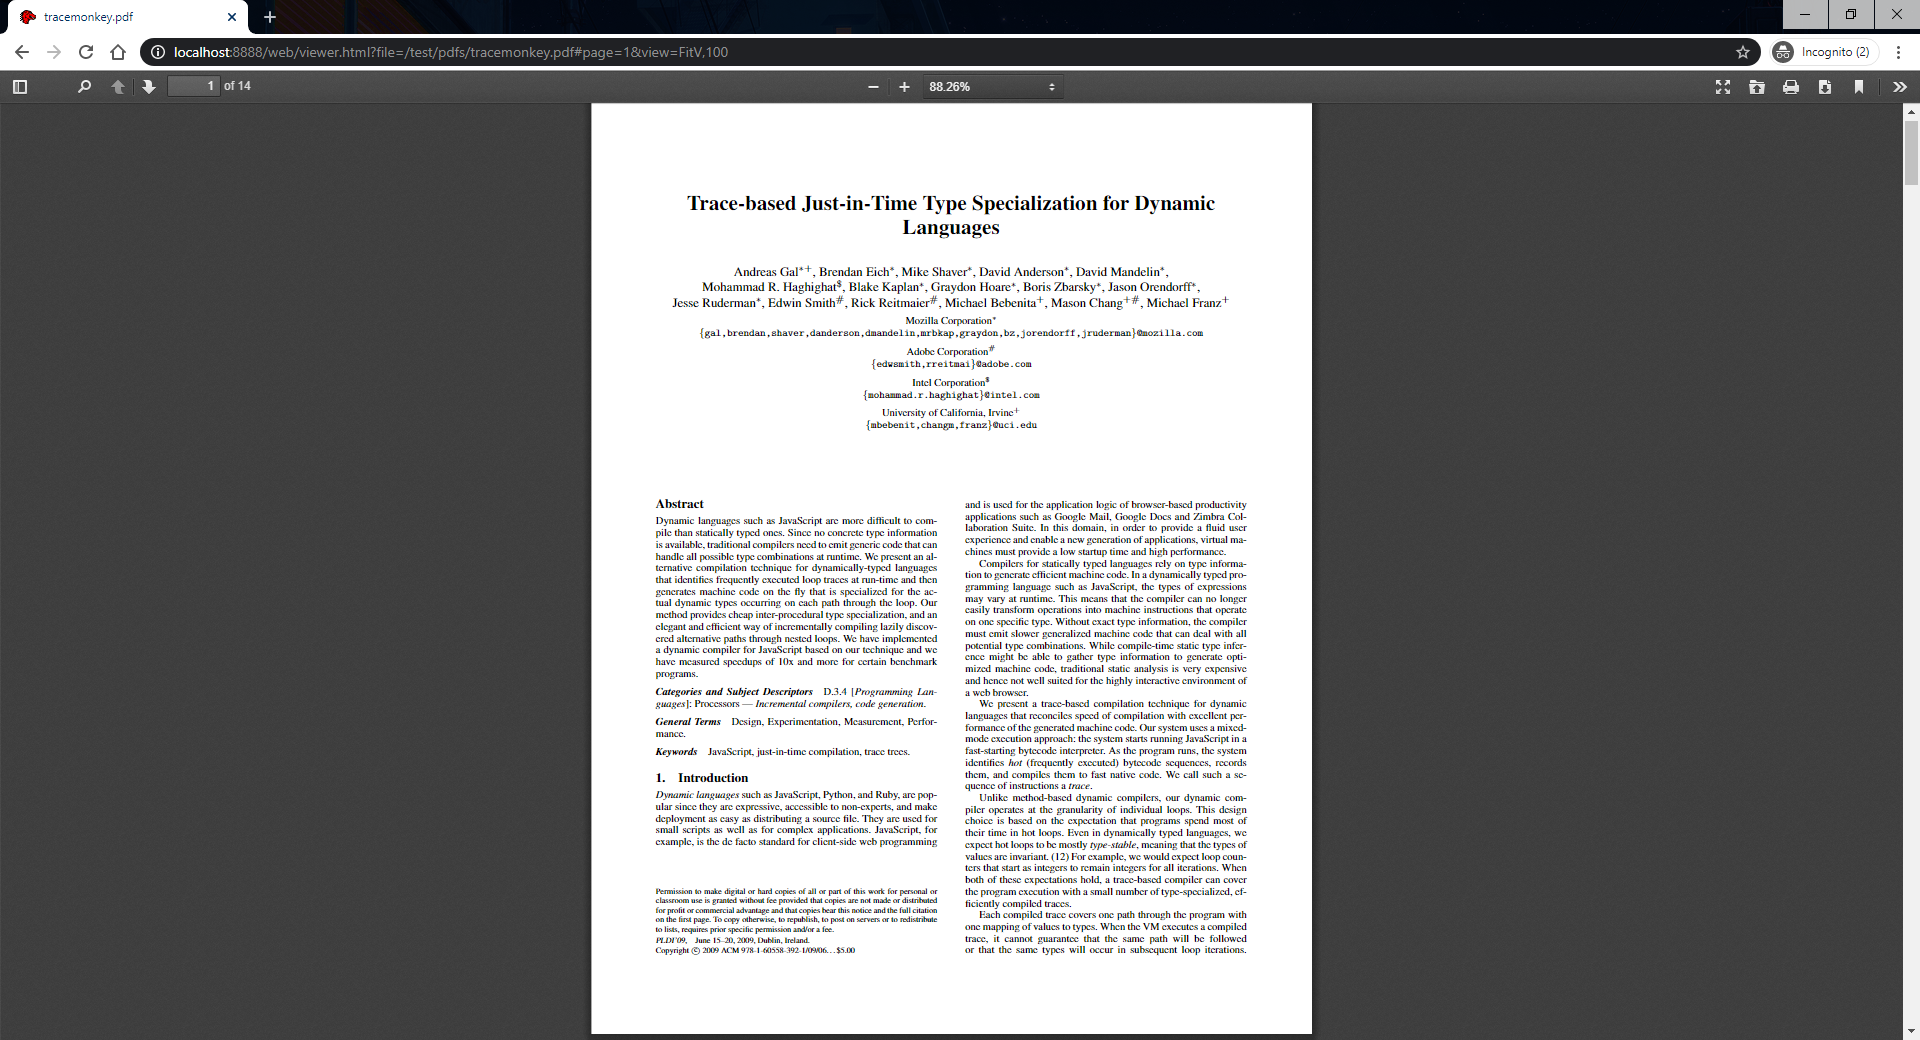
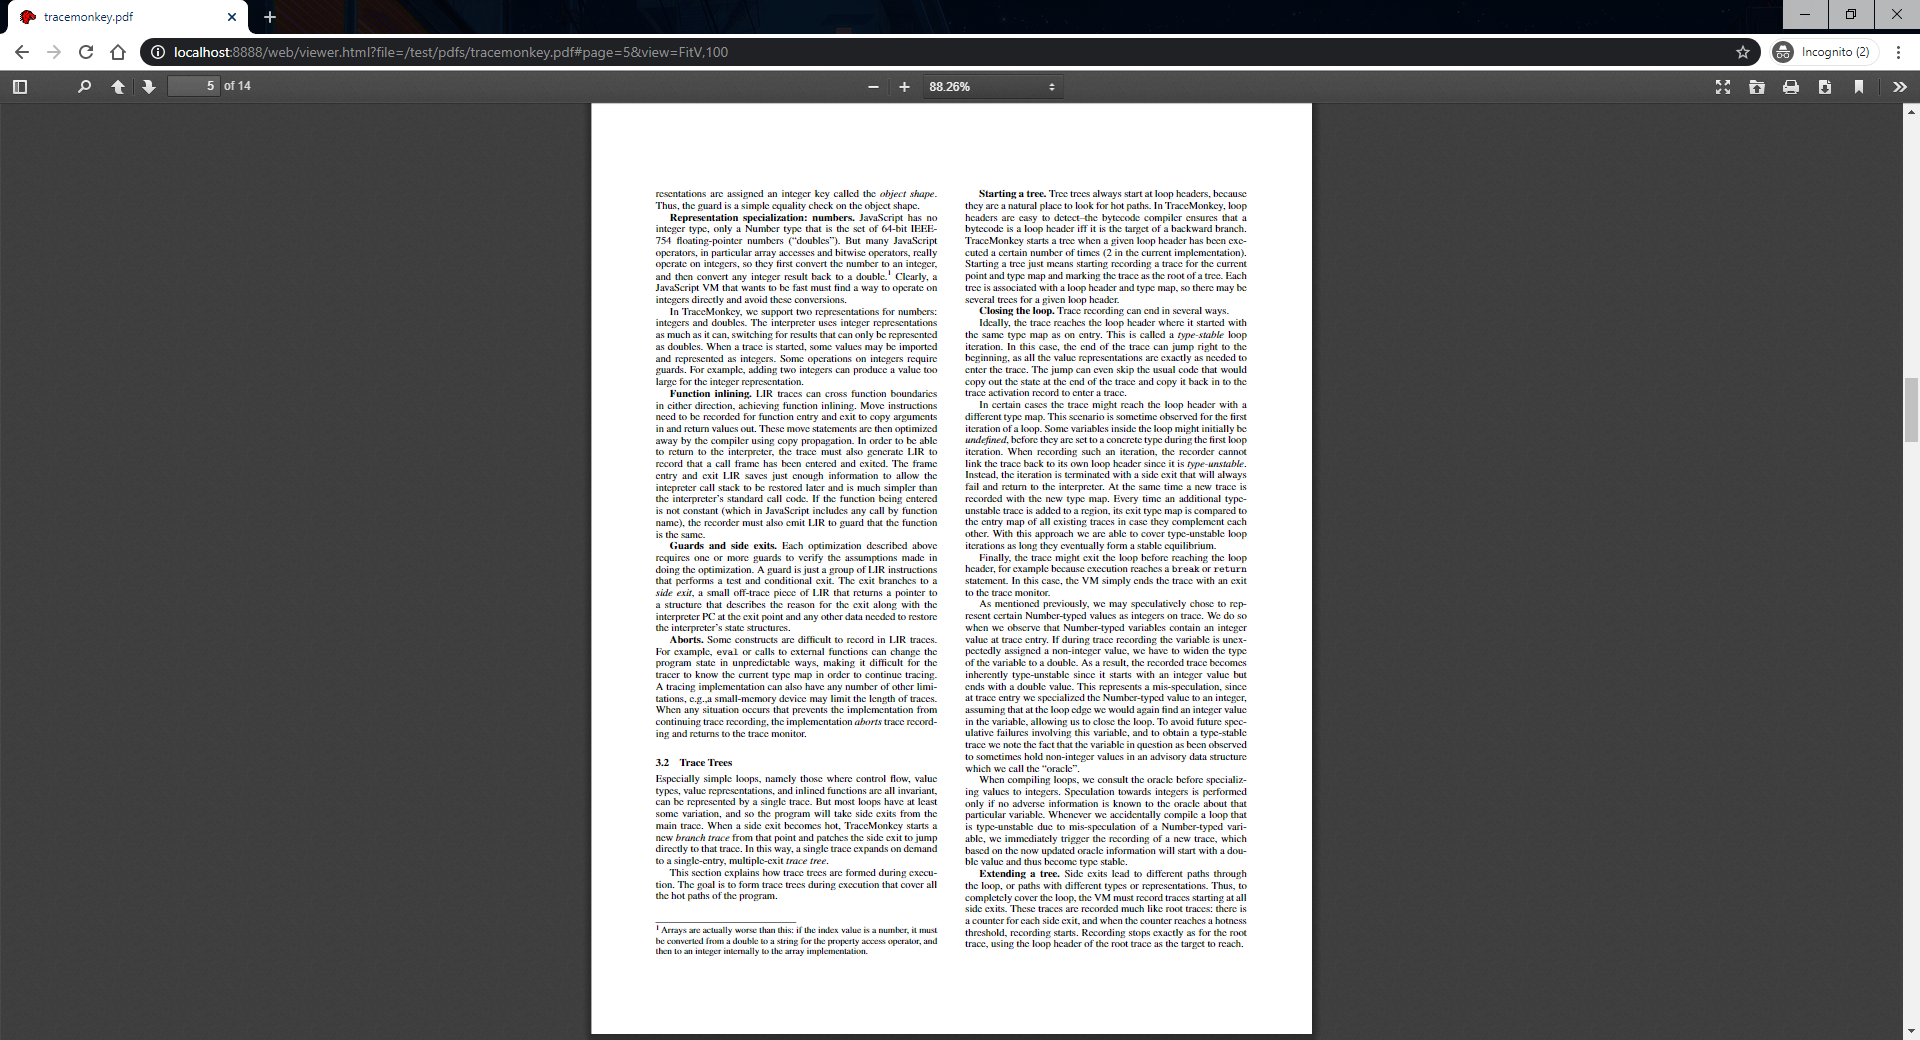
10773 Finalized screenshots.

Changed region(s): [[0.3438, 0.1846, 0.6562, 0.9231], [0.9688, 0.3692, 1.0, 0.4308], [0.9688, 0.1231, 1.0, 0.1846]]

diff --git a/doc/deliverable4/10773/acceptance_testing.md b/doc/deliverable4/10773/acceptance_testing.md
@@ -29,7 +29,7 @@ Step 5: Observe the PDF is rendered to the first page with the default view 'Aut
 ### 1. Fit parameter
 #### a. Fit horizontally
 
-Step 1: Append Fit parameter, `#view=FitH`, to the URL and reload
+Step 1: Append Fit parameter, `#view=FitH,100`, to the URL and reload
 
 Step 2: Observe the PDF is rendered to Fit horizontally with the page width
 
@@ -53,19 +53,23 @@ Step 2: Observe the PDF is rendered to fit to page
 
 ### 2. Fit to a specific page with fit parameter
 
+When rendering to specifc pages, having mentioned in [issue #2843](https://github.com/mozilla/pdf.js/issues/2843), the zoom parameters are not correctly implemented and need to be set to specific values for the page to display correctly, therefore, zoom parameters are also used in these cases.
+
 #### a. Fit to a specific page horizontally
 
-Step 1: Change the Fit parameter in the URL into `#page=2&view=FitH` and reload
+Step 1: Change the Fit parameter in the URL into `#page=2&view=FitH,975` and reload
 
 Step 2: Observe the PDF is rendered to page 2 and fit horizontally
 
+![Fit to page horizontally](./img/10773_fitH_795.png)
+
 #### b. Fit to a specific page vertically
 
-Step 1: Change the Fit parameter in the URL into `#page=1&view=FitV,100` and reload
+Step 1: Change the Fit parameter in the URL into `#page=5&view=FitV,100` and reload
 
-Step 2: Observe the PDF is rendered to page 1 and fit vertically
+Step 2: Observe the PDF is rendered to page 5 and fit vertically
 
-![Fit to page](./img/10773_fitV_100.png)
+![Fit to page vertically](./img/10773_fitV_100.png)
 
 ### 3. Fit to a specific page with set parameter when opening the PDF
 
@@ -75,10 +79,12 @@ Step 1: Close the previously opened test file
 
 Step 2: Re-open the test file with a fit parameter in the URL, such as
 ```
-http://localhost:8888/web/viewer.html?file=%2Fweb%2Fcompressed.tracemonkey-pldi-09.pdf#page=3&view=FitH
+http://localhost:8888/web/viewer.html?file=%2Fweb%2Fcompressed.tracemonkey-pldi-09.pdf#page=3&view=FitH,795
 ```
 
 Step 3: Observe the PDF is rendered to page 3 and fit horizontally
+
+![Fit to page horizontally](./img/10773_fitH_795_page3.png)
 
 #### b. Fit vertically
 
@@ -90,3 +96,5 @@ http://localhost:8888/web/viewer.html?file=%2Ftest%2Fpdfs%2Frotation.pdf#page=2&
 ```
 
 Step 3: Observe the PDF is rendered to page 2 and fit vertically
+
+![Fit to page vertically](./img/10773_fitV_rotation.png)
